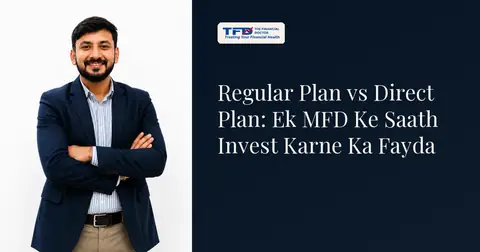
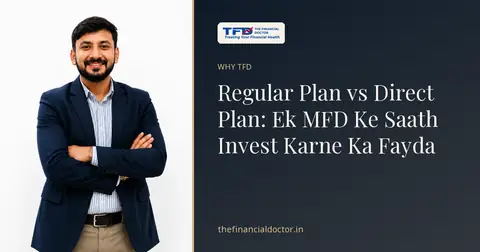
Fix invisible category/URL text on brand_comparison and other-topic cards
Their accent colour was (14, 27, 44) — identical to the navy background —
so the topic badge and URL text (drawn directly in that colour) were
essentially invisible. Swapped to the site's gold accent (#D8B98A), which
has real contrast against navy. Regenerated all affected images.

diff --git a/backend/scripts/generate_topic_share_cards.py b/backend/scripts/generate_topic_share_cards.py
@@ -46,8 +46,10 @@ TOPICS = {
     "retirement_planning": ((184, 114, 46), "RETIREMENT", "The salary stops. The plan shouldn't."),
     "general_investing": ((2, 67, 150), "INVESTING BASICS", "Investing, explained without the jargon."),
     "awareness": ((90, 62, 32), "MARKET HISTORY", "Every crash has a lesson. Most investors skip it."),
-    "brand_comparison": ((14, 27, 44), "WHY TFD", "Real advice. Real numbers."),
-    "other": ((14, 27, 44), "THE FINANCIAL DOCTOR", "Real advice. Real numbers."),
+    # Was (14, 27, 44) — identical to NAVY, making the badge/URL text
+    # invisible against the navy background. Gold accent instead.
+    "brand_comparison": ((216, 185, 138), "WHY TFD", "Real advice. Real numbers."),
+    "other": ((216, 185, 138), "THE FINANCIAL DOCTOR", "Real advice. Real numbers."),
 }
 
 

diff --git a/backend/scripts/generate_blog_post_share_cards.py b/backend/scripts/generate_blog_post_share_cards.py
@@ -60,8 +60,12 @@ TOPIC_STYLE = {
     "retirement_planning": ((184, 114, 46), "RETIREMENT"),
     "general_investing": ((2, 67, 150), "INVESTING BASICS"),
     "awareness": ((90, 62, 32), "MARKET HISTORY"),
-    "brand_comparison": ((14, 27, 44), "WHY TFD"),
-    "other": ((14, 27, 44), "THE FINANCIAL DOCTOR"),
+    # Was (14, 27, 44) — identical to NAVY, making the badge/URL text
+    # (drawn directly in this colour) invisible against the navy
+    # background for every "brand_comparison"/"other" post. Site's gold
+    # accent instead, which has real contrast against navy.
+    "brand_comparison": ((216, 185, 138), "WHY TFD"),
+    "other": ((216, 185, 138), "THE FINANCIAL DOCTOR"),
 }
 
 
